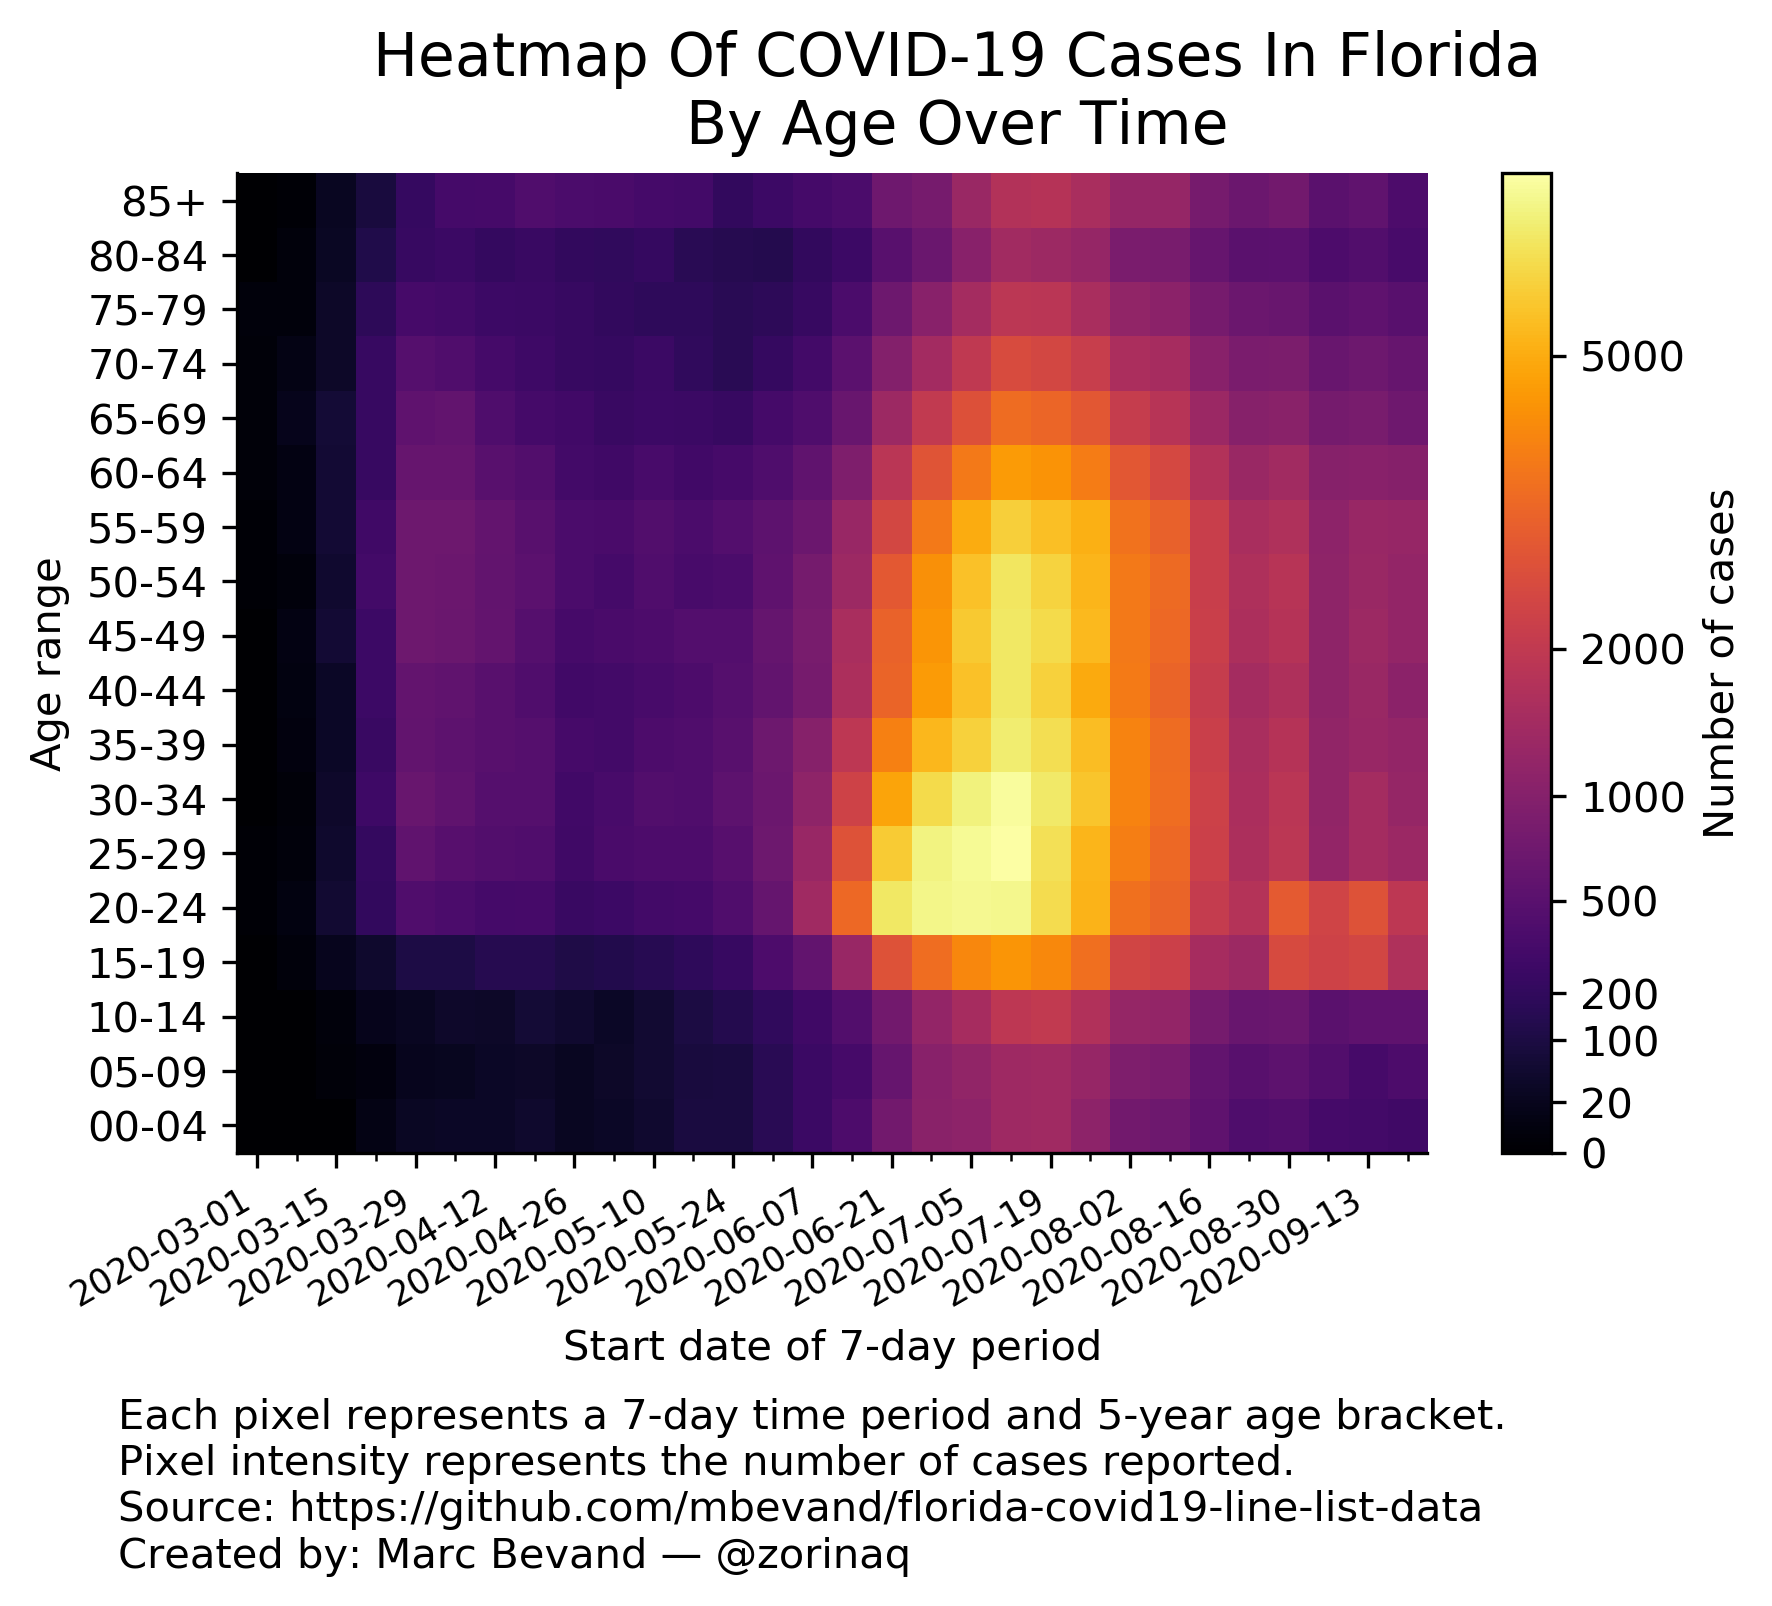
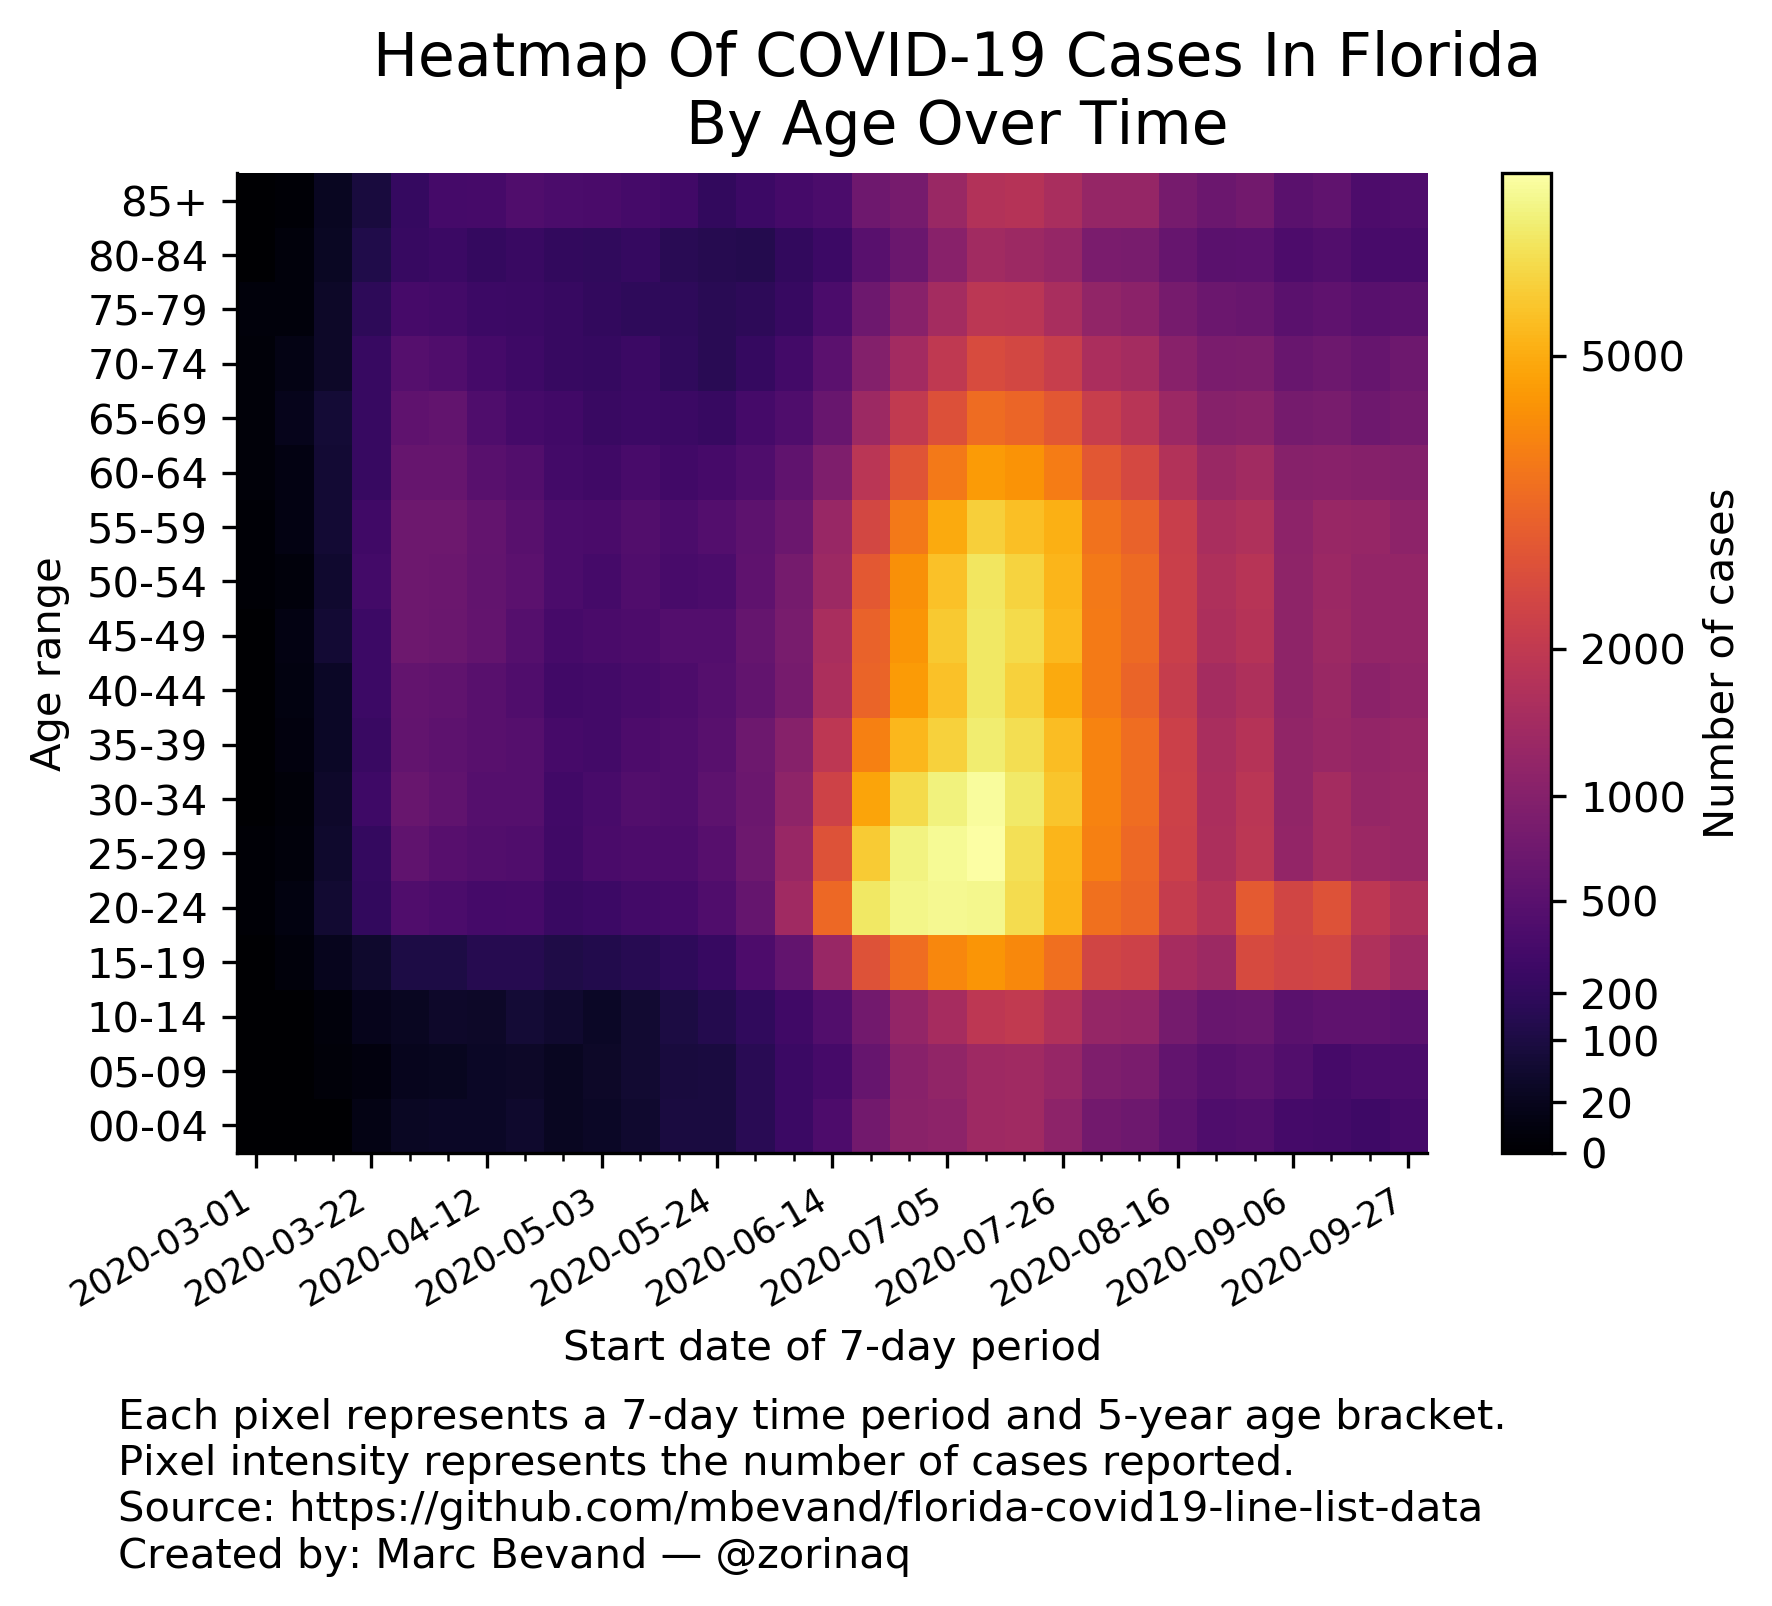
update heatmaps

diff --git a/README.md b/README.md
@@ -1,6 +1,6 @@
 # Forecasting deaths and analyzing age trends of COVID-19 cases in Florida
 
-*Updated: 27 Sep 2020*
+*Updated: 04 Oct 2020*
 
 Author: Marc Bevand
 
@@ -388,7 +388,7 @@ It creates various heatmaps of cases by age over time:
 
 ```
 $ ./heatmap.py
-Opening data_fdoh/2020-09-27-08-09-26.csv
+Opening data_fdoh/2020-10-04-07-46-18.csv.gz
 Number of COVID-19 cases per 7-day time period in Florida by age bracket over time:
 period_start, 00-04, 05-09, 10-14, 15-19, 20-24, 25-29, 30-34, 35-39, 40-44, 45-49, 50-54, 55-59, 60-64, 65-69, 70-74, 75-79, 80-84, 85+, median_age
   2020-03-01,     0,     0,     0,     0,     1,     1,     0,     0,     0,     0,     1,     1,     2,     2,     2,     3,     0,     0,  65.0
@@ -396,32 +396,33 @@ period_start, 00-04, 05-09, 10-14, 15-19, 20-24, 25-29, 30-34, 35-39, 40-44, 45-
   2020-03-15,     0,     2,     3,    21,    57,    48,    45,    36,    34,    63,    54,    64,    64,    67,    40,    41,    30,    26,  53.0
   2020-03-22,    10,     5,    17,    49,   205,   223,   282,   254,   272,   273,   315,   298,   235,   235,   237,   176,   121,    84,  50.0
   2020-03-29,    32,    21,    28,   109,   428,   577,   652,   583,   604,   701,   716,   704,   631,   550,   470,   345,   234,   228,  50.0
-  2020-04-05,    34,    25,    42,   108,   383,   481,   569,   541,   577,   669,   699,   706,   636,   593,   418,   313,   262,   326,  51.0
+  2020-04-05,    34,    25,    42,   108,   383,   481,   568,   541,   577,   669,   699,   706,   636,   593,   418,   313,   262,   326,  51.0
   2020-04-12,    37,    35,    41,   142,   330,   437,   465,   494,   490,   608,   595,   613,   493,   405,   335,   270,   220,   344,  50.0
-  2020-04-19,    49,    39,    67,   149,   341,   427,   459,   466,   416,   462,   518,   498,   441,   332,   279,   259,   246,   424,  50.0
+  2020-04-19,    49,    39,    67,   149,   341,   427,   459,   466,   416,   462,   518,   498,   441,   332,   278,   259,   246,   424,  50.0
   2020-04-26,    29,    29,    55,   111,   251,   296,   308,   339,   305,   348,   375,   382,   323,   301,   240,   235,   205,   382,  52.0
-  2020-05-03,    37,    38,    35,   132,   276,   364,   355,   321,   319,   364,   328,   373,   297,   245,   225,   212,   202,   363,  50.0
-  2020-05-10,    51,    58,    60,   151,   313,   401,   435,   399,   354,   399,   424,   432,   351,   270,   262,   191,   225,   334,  49.0
-  2020-05-17,    94,    88,    98,   193,   329,   392,   423,   417,   392,   443,   357,   379,   306,   257,   197,   188,   161,   312,  46.0
-  2020-05-24,    91,    94,   136,   242,   425,   481,   544,   491,   468,   447,   375,   444,   336,   237,   165,   159,   144,   207,  42.0
-  2020-05-31,   162,   161,   201,   400,   624,   707,   693,   706,   594,   617,   560,   540,   413,   333,   232,   181,   138,   270,  40.0
-  2020-06-07,   258,   256,   290,   592,  1399,  1287,  1151,  1019,   813,   840,   806,   688,   575,   403,   320,   235,   205,   324,  37.0
-  2020-06-14,   392,   342,   436,  1272,  3356,  2757,  2317,  1940,  1606,  1554,  1364,  1277,   915,   650,   529,   378,   271,   379,  34.0
-  2020-06-21,   765,   643,   762,  2757,  6592,  5829,  4807,  3907,  3229,  3193,  2943,  2437,  1868,  1349,   990,   718,   496,   722,  34.0
-  2020-06-28,  1069,  1047,  1203,  3467,  7124,  6986,  6220,  5293,  4588,  4442,  4302,  3740,  2815,  2031,  1458,  1054,   678,   827,  36.0
-  2020-07-05,  1109,  1189,  1523,  4112,  7213,  7311,  6944,  5950,  5556,  5756,  5536,  4986,  3753,  2698,  1995,  1488,  1060,  1303,  39.0
-  2020-07-12,  1369,  1380,  1926,  4465,  7200,  7551,  7433,  6799,  6615,  6596,  6532,  5917,  4582,  3431,  2575,  1906,  1426,  1741,  41.0
-  2020-07-19,  1407,  1408,  2016,  4131,  6280,  6396,  6676,  6346,  5967,  6246,  6031,  5492,  4407,  3265,  2444,  1874,  1360,  1775,  41.0
-  2020-07-26,  1120,  1247,  1695,  3521,  5206,  5246,  5633,  5433,  4955,  5366,  5257,  5084,  3840,  2893,  2136,  1561,  1238,  1557,  42.0
-  2020-08-02,   768,   928,  1229,  2371,  3531,  3884,  4003,  3992,  3791,  3759,  3740,  3578,  2880,  2126,  1586,  1181,   861,  1232,  42.0
-  2020-08-09,   715,   857,  1222,  2252,  3250,  3331,  3464,  3448,  3229,  3368,  3381,  3171,  2459,  1823,  1499,  1103,   844,  1243,  42.0
-  2020-08-16,   551,   595,   811,  1509,  2083,  2234,  2267,  2224,  2103,  2203,  2191,  2178,  1729,  1334,  1049,   814,   639,   826,  43.0
-  2020-08-23,   414,   493,   656,  1355,  1756,  1615,  1590,  1575,  1487,  1623,  1657,  1560,  1303,  1024,   857,   689,   504,   700,  43.0
-  2020-08-30,   438,   547,   676,  2535,  2952,  1897,  1867,  1775,  1640,  1772,  1811,  1660,  1435,  1082,   879,   650,   525,   765,  39.0
-  2020-09-06,   334,   431,   513,  2320,  2356,  1199,  1188,  1176,  1130,  1145,  1145,  1123,  1021,   798,   664,   514,   396,   516,  37.0
-  2020-09-13,   323,   348,   562,  2421,  2733,  1482,  1481,  1280,  1299,  1363,  1317,  1291,  1056,   838,   714,   553,   434,   575,  37.0
-  2020-09-20,   291,   389,   558,  1676,  1932,  1334,  1241,  1219,  1092,  1210,  1210,  1258,  1003,   727,   646,   491,   357,   401,  39.0
-(Last period's data may be incomplete. Age unknown for 1840 out of 700564 cases.)
+  2020-05-03,    37,    38,    35,   132,   276,   364,   355,   321,   319,   364,   328,   373,   297,   245,   225,   212,   202,   362,  50.0
+  2020-05-10,    51,    58,    60,   151,   313,   401,   435,   399,   353,   399,   423,   432,   351,   270,   262,   191,   225,   334,  49.0
+  2020-05-17,    94,    88,    98,   193,   329,   392,   423,   417,   392,   443,   357,   379,   306,   257,   197,   188,   161,   311,  46.0
+  2020-05-24,    91,    94,   136,   242,   424,   481,   544,   491,   468,   447,   375,   444,   336,   237,   165,   159,   144,   207,  42.0
+  2020-05-31,   162,   161,   201,   400,   624,   707,   693,   706,   594,   617,   560,   539,   413,   333,   232,   181,   138,   269,  40.0
+  2020-06-07,   258,   256,   290,   592,  1399,  1287,  1150,  1019,   813,   840,   805,   688,   575,   402,   320,   235,   205,   324,  37.0
+  2020-06-14,   392,   342,   436,  1271,  3356,  2757,  2317,  1940,  1605,  1554,  1364,  1277,   915,   650,   529,   378,   271,   379,  34.0
+  2020-06-21,   764,   643,   762,  2757,  6592,  5830,  4807,  3907,  3229,  3192,  2944,  2436,  1868,  1347,   989,   718,   496,   722,  34.0
+  2020-06-28,  1068,  1047,  1202,  3466,  7124,  6987,  6217,  5292,  4588,  4441,  4301,  3740,  2815,  2030,  1457,  1053,   677,   826,  36.0
+  2020-07-05,  1109,  1188,  1523,  4110,  7210,  7311,  6943,  5949,  5553,  5756,  5535,  4984,  3752,  2697,  1994,  1488,  1060,  1303,  39.0
+  2020-07-12,  1369,  1380,  1925,  4465,  7199,  7550,  7432,  6798,  6613,  6595,  6529,  5914,  4581,  3430,  2573,  1908,  1424,  1741,  41.0
+  2020-07-19,  1407,  1409,  2015,  4131,  6279,  6396,  6675,  6344,  5967,  6245,  6027,  5489,  4406,  3265,  2444,  1873,  1358,  1774,  41.0
+  2020-07-26,  1120,  1247,  1693,  3520,  5207,  5244,  5630,  5432,  4953,  5365,  5255,  5083,  3836,  2891,  2137,  1559,  1237,  1556,  42.0
+  2020-08-02,   763,   928,  1228,  2377,  3549,  3911,  4019,  4013,  3800,  3781,  3745,  3585,  2885,  2132,  1588,  1183,   863,  1233,  42.0
+  2020-08-09,   714,   857,  1222,  2260,  3261,  3342,  3478,  3455,  3234,  3372,  3396,  3179,  2462,  1829,  1497,  1103,   845,  1242,  42.0
+  2020-08-16,   544,   595,   811,  1512,  2098,  2249,  2268,  2231,  2111,  2209,  2202,  2186,  1733,  1339,  1052,   813,   638,   827,  43.0
+  2020-08-23,   413,   493,   656,  1355,  1751,  1613,  1589,  1571,  1485,  1619,  1653,  1558,  1303,  1024,   861,   688,   505,   697,  43.0
+  2020-08-30,   438,   547,   675,  2537,  2951,  1900,  1863,  1775,  1638,  1775,  1812,  1662,  1438,  1080,   878,   650,   525,   764,  39.0
+  2020-09-06,   332,   431,   510,  2323,  2360,  1202,  1191,  1177,  1135,  1143,  1145,  1123,  1023,   799,   665,   514,   396,   516,  37.0
+  2020-09-13,   321,   347,   560,  2422,  2734,  1480,  1479,  1287,  1302,  1362,  1320,  1289,  1056,   839,   711,   552,   434,   574,  37.0
+  2020-09-20,   286,   384,   555,  1672,  1926,  1331,  1240,  1216,  1090,  1206,  1210,  1249,  1000,   723,   643,   491,   353,   398,  39.0
+  2020-09-27,   324,   386,   528,  1386,  1652,  1288,  1281,  1258,  1154,  1216,  1206,  1121,   988,   790,   715,   508,   350,   405,  40.0
+(Last period's data may be incomplete. Age unknown for 1044 out of 716459 cases.)
 ```
 
 By default the size of each pixel, or *bucket*, is 5-year age brackets and 7-day
